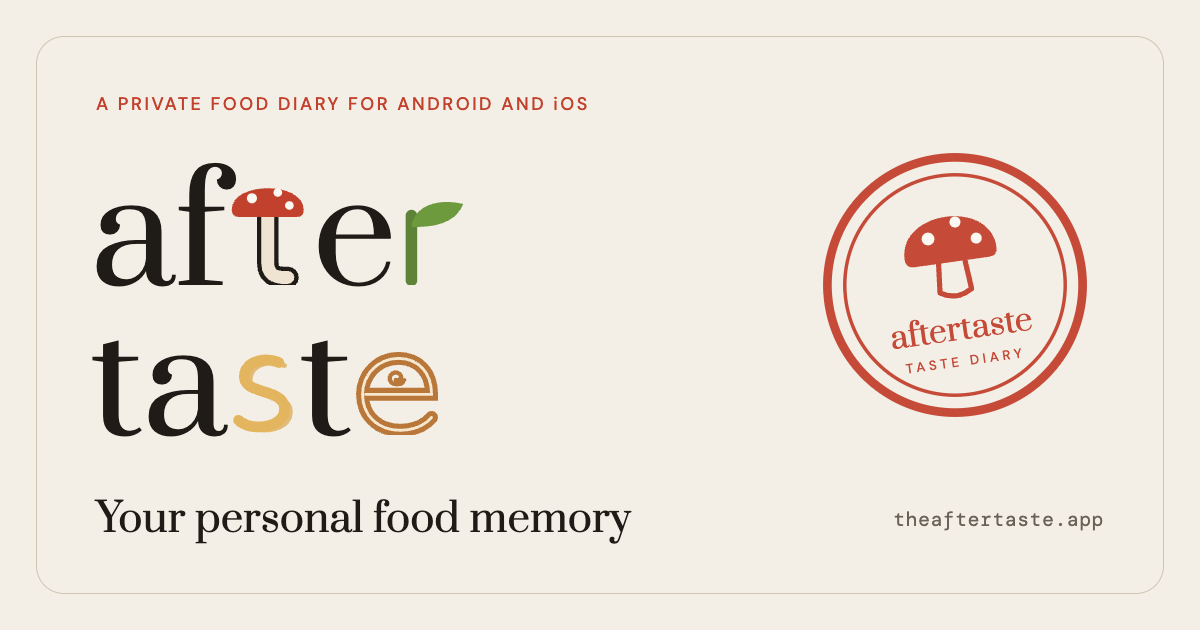
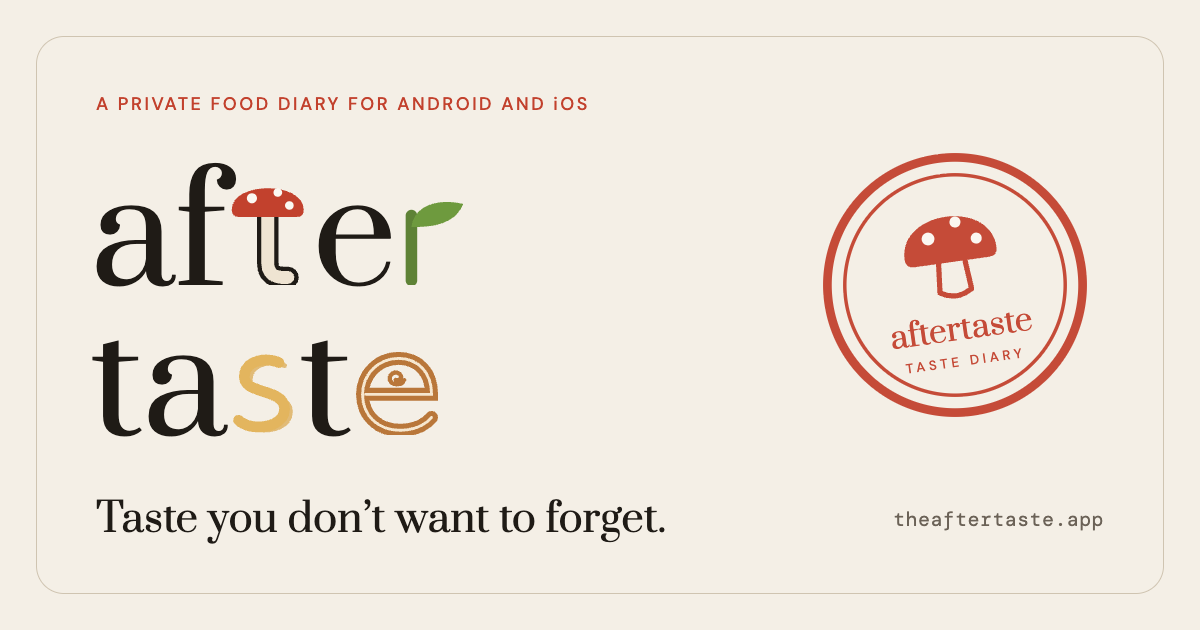
feat(sync): tagline 'Taste you don’t want to forget.' (site config, title, manifest, OG)

Changed region(s): [[0.0617, 0.7841, 0.555, 0.8746]]

diff --git a/src/config/site.ts b/src/config/site.ts
@@ -7,7 +7,8 @@ export const site = {
   name: 'Aftertaste',
   url: 'https://theaftertaste.app',
   locale: 'en-IN',
-  tagline: 'Your personal food memory',
+  /** The app's tagline since 2026-11-24 (Login, About). Replaced "Your personal food memory". */
+  tagline: 'Taste you don’t want to forget.',
   description:
     'Aftertaste is a private food diary for Android and iOS. Log the places you eat at and every dish you order, with a photo and a rating, and know what to order next time.',
   contactEmail: 'hello@theaftertaste.app',

diff --git a/.claude/project-state/active-work.md b/.claude/project-state/active-work.md
@@ -26,7 +26,7 @@ Read-only reads of the app repo (`DishDiary`, branch `work-branch`, legal docs a
 
 - **Product:** Aftertaste (display name; package identifiers stay `bitemarks`). Private food diary. At v1 the site said Android only; since 2026-11-14 it is a native app for Android and iOS, both still cooking. Not yet on Google Play or the App Store.
 - **Owner / contact:** an individual in India (named in the earlier legal drafts; the site publishes no personal name). Governing law: India, courts at Dehradun.
-- **Tagline:** "Your personal food memory" (LoginScreen). Store taglines: "Remember every good bite." Store short description: "Your private food diary: places, dishes, photos and what to eat next."
+- **Tagline:** "Taste you don't want to forget." (Login and About; changed 2026-11-24, was "Your personal food memory"; site synced 2026-11-26). Store taglines: "Remember every good bite." Store short description: "Your private food diary: places, dishes, photos and what to eat next."
 - **Feature names (app copy):** Want to try, Tried, What should we eat?, Pick for me, Another, From your Want to try, One of your favourites, Loved by {name}, Near you, From friends, Visit logged, LOGGED stamp, RECOMMENDED · WOULD RETURN, MUST-TRY, TRIED, Export my data, Delete account, share my diary (discoverable).
 - **Icons:** Feather is the app icon set; Ionicons only for star/heart glyphs. No emoji as icons. Website uses `feather-icons` SVGs (MIT) inlined at build time.
 - **Fonts:** Prata 400 (display), DM Sans 400/500/600 (UI), DM Mono 400/500 (mono role, receipt). All SIL OFL 1.1 (`@expo-google-fonts/*/LICENSE_FONT`). DM Mono and Prata have no ₹ (U+20B9); DM Sans does, so the mono stack falls back to DM Sans for ₹.

diff --git a/CLAUDE.md b/CLAUDE.md
@@ -9,7 +9,7 @@ Context for Claude Code working in this repository. Keep it in sync: when you ch
 
 ## Overview
 
-The public website for **Aftertaste**, a private food diary, a native app for Android and iOS ("Your personal food memory"), at **https://theaftertaste.app** (apex is canonical; `www` redirects to it via a Cloudflare Bulk Redirect). Static Astro site deployed by Cloudflare Pages from `main`, plus one Pages Function (`functions/api/beta.ts`, the private-beta list in Cloudflare D1). The app is in private beta ("still cooking"): no download is offered. Pages: `/`, `/privacy`, `/terms`, `/support`, and a branded `404`. Contact: `hello@theaftertaste.app`. The app lives in a separate repo (`DishDiary`, package `bitemarks`); this repo is public.
+The public website for **Aftertaste**, a private food diary, a native app for Android and iOS ("Taste you don’t want to forget."), at **https://theaftertaste.app** (apex is canonical; `www` redirects to it via a Cloudflare Bulk Redirect). Static Astro site deployed by Cloudflare Pages from `main`, plus one Pages Function (`functions/api/beta.ts`, the private-beta list in Cloudflare D1). The app is in private beta ("still cooking"): no download is offered. Pages: `/`, `/privacy`, `/terms`, `/support`, and a branded `404`. Contact: `hello@theaftertaste.app`. The app lives in a separate repo (`DishDiary`, package `bitemarks`); this repo is public.
 
 ## Non-negotiables (details in [RULES](docs/RULES.md))
 

diff --git a/docs/PRD.md b/docs/PRD.md
@@ -1,6 +1,6 @@
 # Product requirements: theaftertaste.app
 
-The public website for **Aftertaste**, a private food diary, a native app for Android and iOS ("Your personal food memory"). Live at <https://theaftertaste.app>. Related: [ARCHITECTURE](ARCHITECTURE.md), [RULES](RULES.md), [DESIGN](DESIGN.md), [TASKS](TASKS.md).
+The public website for **Aftertaste**, a private food diary, a native app for Android and iOS ("Taste you don’t want to forget."). Live at <https://theaftertaste.app>. Related: [ARCHITECTURE](ARCHITECTURE.md), [RULES](RULES.md), [DESIGN](DESIGN.md), [TASKS](TASKS.md).
 
 ## Purpose
 
